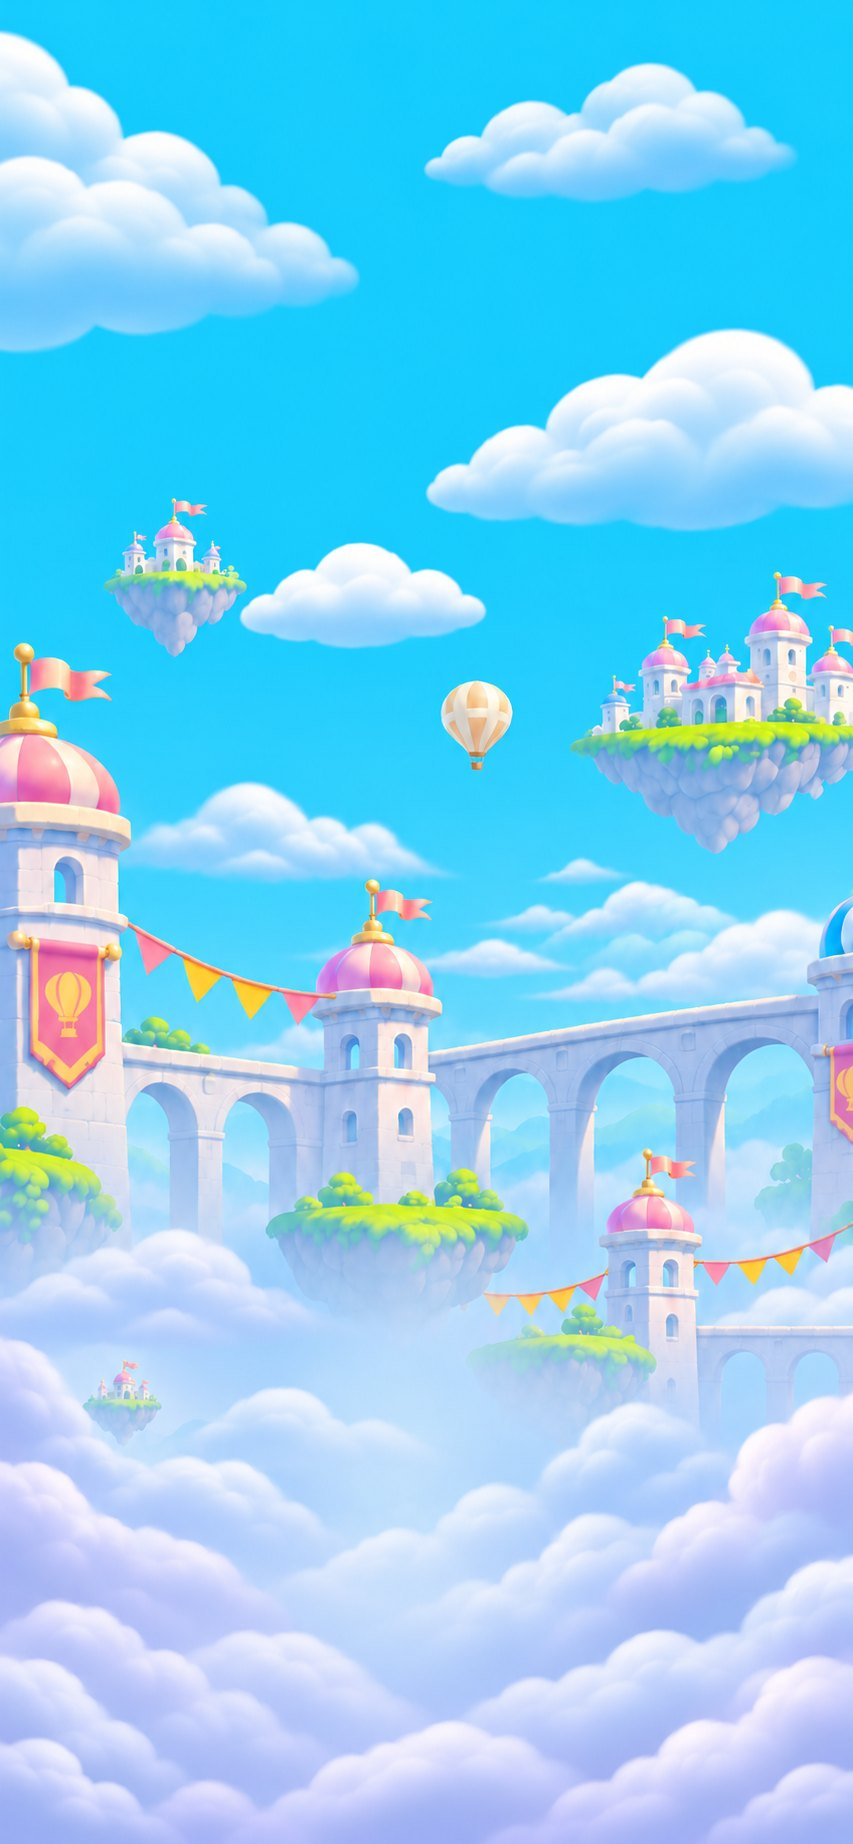
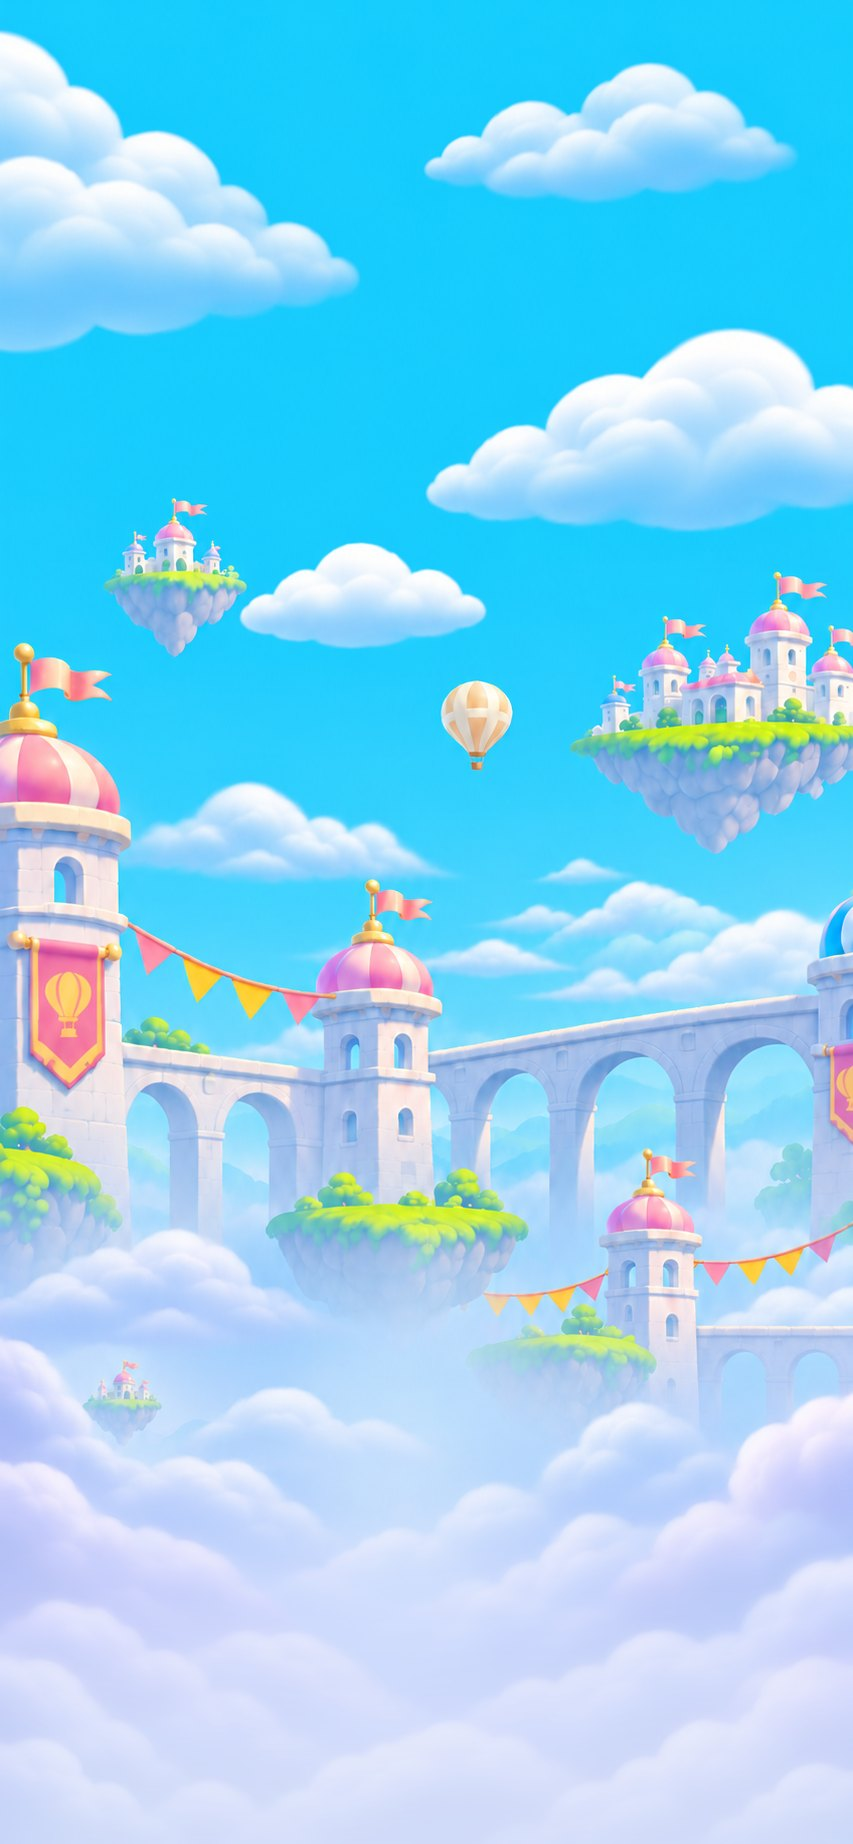
Start screen: Allan's softened home background
Claude-Session: https://claude.ai/code/session_01NtdD59FKe2D5p4YXTBGgrJ

Changed region(s): [[0.0, 0.8346, 1.0, 1.0], [0.9449, 0.8655, 1.0, 0.8964]]

diff --git a/index.html b/index.html
@@ -51,7 +51,7 @@ html.winning #lvBar,html.winning #top .grp{visibility:hidden}
 .fly-plus{position:absolute;z-index:41;pointer-events:none;font:700 36px/1 var(--f-display);color:#FFDE3D;text-shadow:0 2px 0 #5B3A60,2px 0 #5B3A60,-2px 0 #5B3A60,0 -2px #5B3A60;animation:fplus 1.1s ease-out forwards}
 @keyframes fplus{0%{opacity:0;transform:translate(-50%,0) scale(.5)}20%{opacity:1;transform:translate(-50%,-14px) scale(1.15)}100%{opacity:0;transform:translate(-50%,-60px) scale(1)}}
 /* Start screen (Allan 2026-11-16): logo, Play with the current level, Boing bouncing at the bottom, Stars + Shop teasers */
-#start{position:absolute;inset:0;z-index:90;overflow:hidden;background:#C9C4FA url(art/ui/home-bg.jpg) center top/cover no-repeat}
+#start{position:absolute;inset:0;z-index:90;overflow:hidden;background:#C9C4FA url(art/ui/home-bg.jpg?v=2) center top/cover no-repeat}
 #startCv{position:absolute;left:0;top:auto;bottom:0;width:100%;height:46%}
 .s-logo{position:absolute;left:50%;top:calc(env(safe-area-inset-top,0px)/2 + 20%);width:min(88%,420px);transform:translate(-50%,-50%);filter:drop-shadow(0 8px 8px rgba(60,20,70,.3));animation:slogo 2.4s ease-in-out infinite}
 @keyframes slogo{0%,100%{transform:translate(-50%,-50%) rotate(-2deg) scale(1)}50%{transform:translate(-50%,-50%) rotate(2deg) scale(1.04)}}

diff --git a/CLAUDE.md b/CLAUDE.md
@@ -39,7 +39,7 @@
 - Core loop: `tap()`, `step()`, `land()`, `doSlamBounce()`, `hitBrk()`, `nextCombo()`, `turnsAt()`, `die()`, `startPlay()`.
 - Splash: `#splash` (Allan's title art `art/ui/splash.jpg`) with a loader bar, run by `splashRun()`. The bar follows real loading (images, Spine, sounds, fonts) but never fills faster than Feel `splashMin` seconds (default 2) from page open; it gives up waiting after 12 s. The game loop and taps wait while `SPLASH` is true.
 - Win: `celebrate()`, `winStep()`, `showBanner()`. The popup (`#win .w-panel`, styled after Allan's purple/cream ChatGPT design `art/ui/src/level-clear-concept-2.png` (the older navy one is `level-clear-concept.png`); baked pictures `art/ui/title.png` ("Level clear!"), `crown.png`, shiny `star.png`, `star-empty.png`, `coin.png` redrawn by ChatGPT from that design (2026-11-13), plus `panel.png` (9-slice frame via `border-image`), `stats-bar.png` and `button.png` (stretched). The earlier pieces cut by `python3 tools/cut_ui.py` are kept in `art/ui/src/cut-v1/`; rerunning that script overwrites ChatGPT's pieces; NEW BEST / FIRST CLEAR is plain colourful text, no pill, per Allan; each star that pops in throws Allan's `art/ui/sparkle.png` twinkles via `starSparkles()`) shows Level clear!, 1–3 stars, slams, coins found / total, time. Bottom buttons (Allan's design 2026-11-17, art and mock in `art/ui/src/popup-buttons/`): `#wTap` row `.w-btns` with Home (`#wHome`, back to the start screen), Replay (`#wReplay`) and a pulsing gold Next Level (`#wNext`, same as a tap); `button-mauve.png`, `button-next-gold.png`, `icon-{home,replay,next}.png`; `winClose()`. Tapping the game behind the popup still moves on. Stats bar: the coin icon is a small one beside the COINS label (`.w-cl`, Allan 2026-11-17, to stop crowding), numbers 28 px with slight negative letter-spacing. Stars: `levelPar()` = fewest slams the bot finds (computed once per layout + physics Feel at level start, saved as `sbl_par_<hash>`); `starsFor()`: ≤ par = 3, ≤ par + `starStep(par)` (max(2, ½ par)) = 2, else 1. Best stars saved as `sbl_best_<hash>_stars`. Feel `starRule` ("Stars are for", Allan comparing 2026-11-14; `starResult()`): `slams` (default, the rule above), `goals` (one star each for the flag, all coins, par slams or fewer; popup shows a ✓/✗ list), `coins` (every `COIN_BUYBACK` = 3 coins take one slam off the count). Allan wants more coins in levels, Mario-style.
-- Start screen (2026-11-16, `// ---------- start screen`): pitch mode shows `#start` under the splash at boot (`showStart()`; `START` pauses the game): Allan's ChatGPT logo `art/ui/logo.png` (background `art/ui/home-bg.jpg`, Allan's ChatGPT painting 2026-11-17, original PNG in `art/ui/src/home-bg.png`, drawn `cover` from the top; logo original in `art/ui/src/logo-chatgpt.png`; centred at 20% height, halfway between the top and the level label at 40%, Allan 2026-11-17), bank pill, current level + big PLAY (restarts the level fresh), Stars button (`#sheet2` list of levels with best stars; tapping a row plays it) and Shop teaser (Coming soon: Jet Boost, Extra Bounce, Golden Boing). Boing bounces on a cap at the bottom on `#startCv` (`startAnim()`), using his Spine `land` + scrubbed `air` animations when Spine has loaded (own skeleton `SS` from `SP.data`), else the pose pictures `art/boing/game/{rise,apex,fall,land}.png`. Hop height `min(h*0.4,150)` px, Allan asked for a low hop that lands on the cap. The pause popup has a Home button back to it.
+- Start screen (2026-11-16, `// ---------- start screen`): pitch mode shows `#start` under the splash at boot (`showStart()`; `START` pauses the game): Allan's ChatGPT logo `art/ui/logo.png` (background `art/ui/home-bg.jpg`, Allan's ChatGPT painting 2026-11-17, original PNG in `art/ui/src/home-bg.png` (his softened-bottom version; the first one is `home-bg-v1.png`; bump the `?v=` on its CSS url when it changes), drawn `cover` from the top; logo original in `art/ui/src/logo-chatgpt.png`; centred at 20% height, halfway between the top and the level label at 40%, Allan 2026-11-17), bank pill, current level + big PLAY (restarts the level fresh), Stars button (`#sheet2` list of levels with best stars; tapping a row plays it) and Shop teaser (Coming soon: Jet Boost, Extra Bounce, Golden Boing). Boing bounces on a cap at the bottom on `#startCv` (`startAnim()`), using his Spine `land` + scrubbed `air` animations when Spine has loaded (own skeleton `SS` from `SP.data`), else the pose pictures `art/boing/game/{rise,apex,fall,land}.png`. Hop height `min(h*0.4,150)` px, Allan asked for a low hop that lands on the cap. The pause popup has a Home button back to it.
 - Coin bank + pause (2026-11-16, for Allan's pitch): pitch-mode top bar row 1 = round pause button (`#bPause` → `#pause` popup: Continue / Replay level) and the coin bank pill (`#bankPill`, saved as `sbl_bank`); row 2 = level pill + this level's coins; the round restart button is hidden in pitch mode. On a level clear `bankPay()` banks every coin collected (replays too) plus a bonus for each star earned on that level for the first time (star n pays n × Feel `starBonus`, default 10; paid stars saved as `<levelKey>_paid`), and coins fly from the popup's coin stat and the new stars into the pill (spinning `.fly-coin` divs using the `coin-spin` strip; they pop out, hover, then zip to the pill over 1.15 s). Not during the bot's Watch.
 - Pitch mode (2026-11-14, for showing the game): by default the dev tools are hidden (`html.pitch`: no Edit/Play, Bot, Feel, debug line, height marks or dark tip box) and the top bar shows the level pill, a coin counter (`#coinPill`) and a round restart button. **Hold the level name for 1 second** (or open with `?dev=1`, `?dev=0` to force off) to toggle `DEV`, saved as `sbl_dev`.
 - Tap tutorial (`// ---------- tap tutorial (FTUE) ----------`, Feel `guide`): on the first level that uses each new move (`guideMove()`: slam, double, smash, springslam, tough), `guidePlan()` gets the bot's most forgiving tap ticks (`botTolerance`), time slows as each tap nears and freezes on the exact tick with Allan's finger (`art/ui/finger.png`) and a label until the player taps. Because the physics is deterministic, following it reproduces the bot's win. An off-cue tap turns it off for that try; clearing the level turns it off until reload (`guideDone`), unless Feel `guideAlways` (default on since 2026-11-14: Allan is reviewing every tutorial moment). Level 1 just shows "Boing bounces by himself!". Double tutorial (Feel `guideDouble`, Allan 2026-11-16): `rhythm` (default) uses `guideDoublePlan()`, which grid-searches a slam late in the first bounce (so no cue before Boing has landed and bounced once) plus the quick turning tap, picking the pair with the most room for error; the game freezes once on "TAP TAP!" (finger double-presses), then the second tap runs at full speed with a fast-pulsing finger. A second tap outside the bot's window turns the guide off with "Tap again faster to turn!". `steps` = the old one-freeze-per-tap guide.
